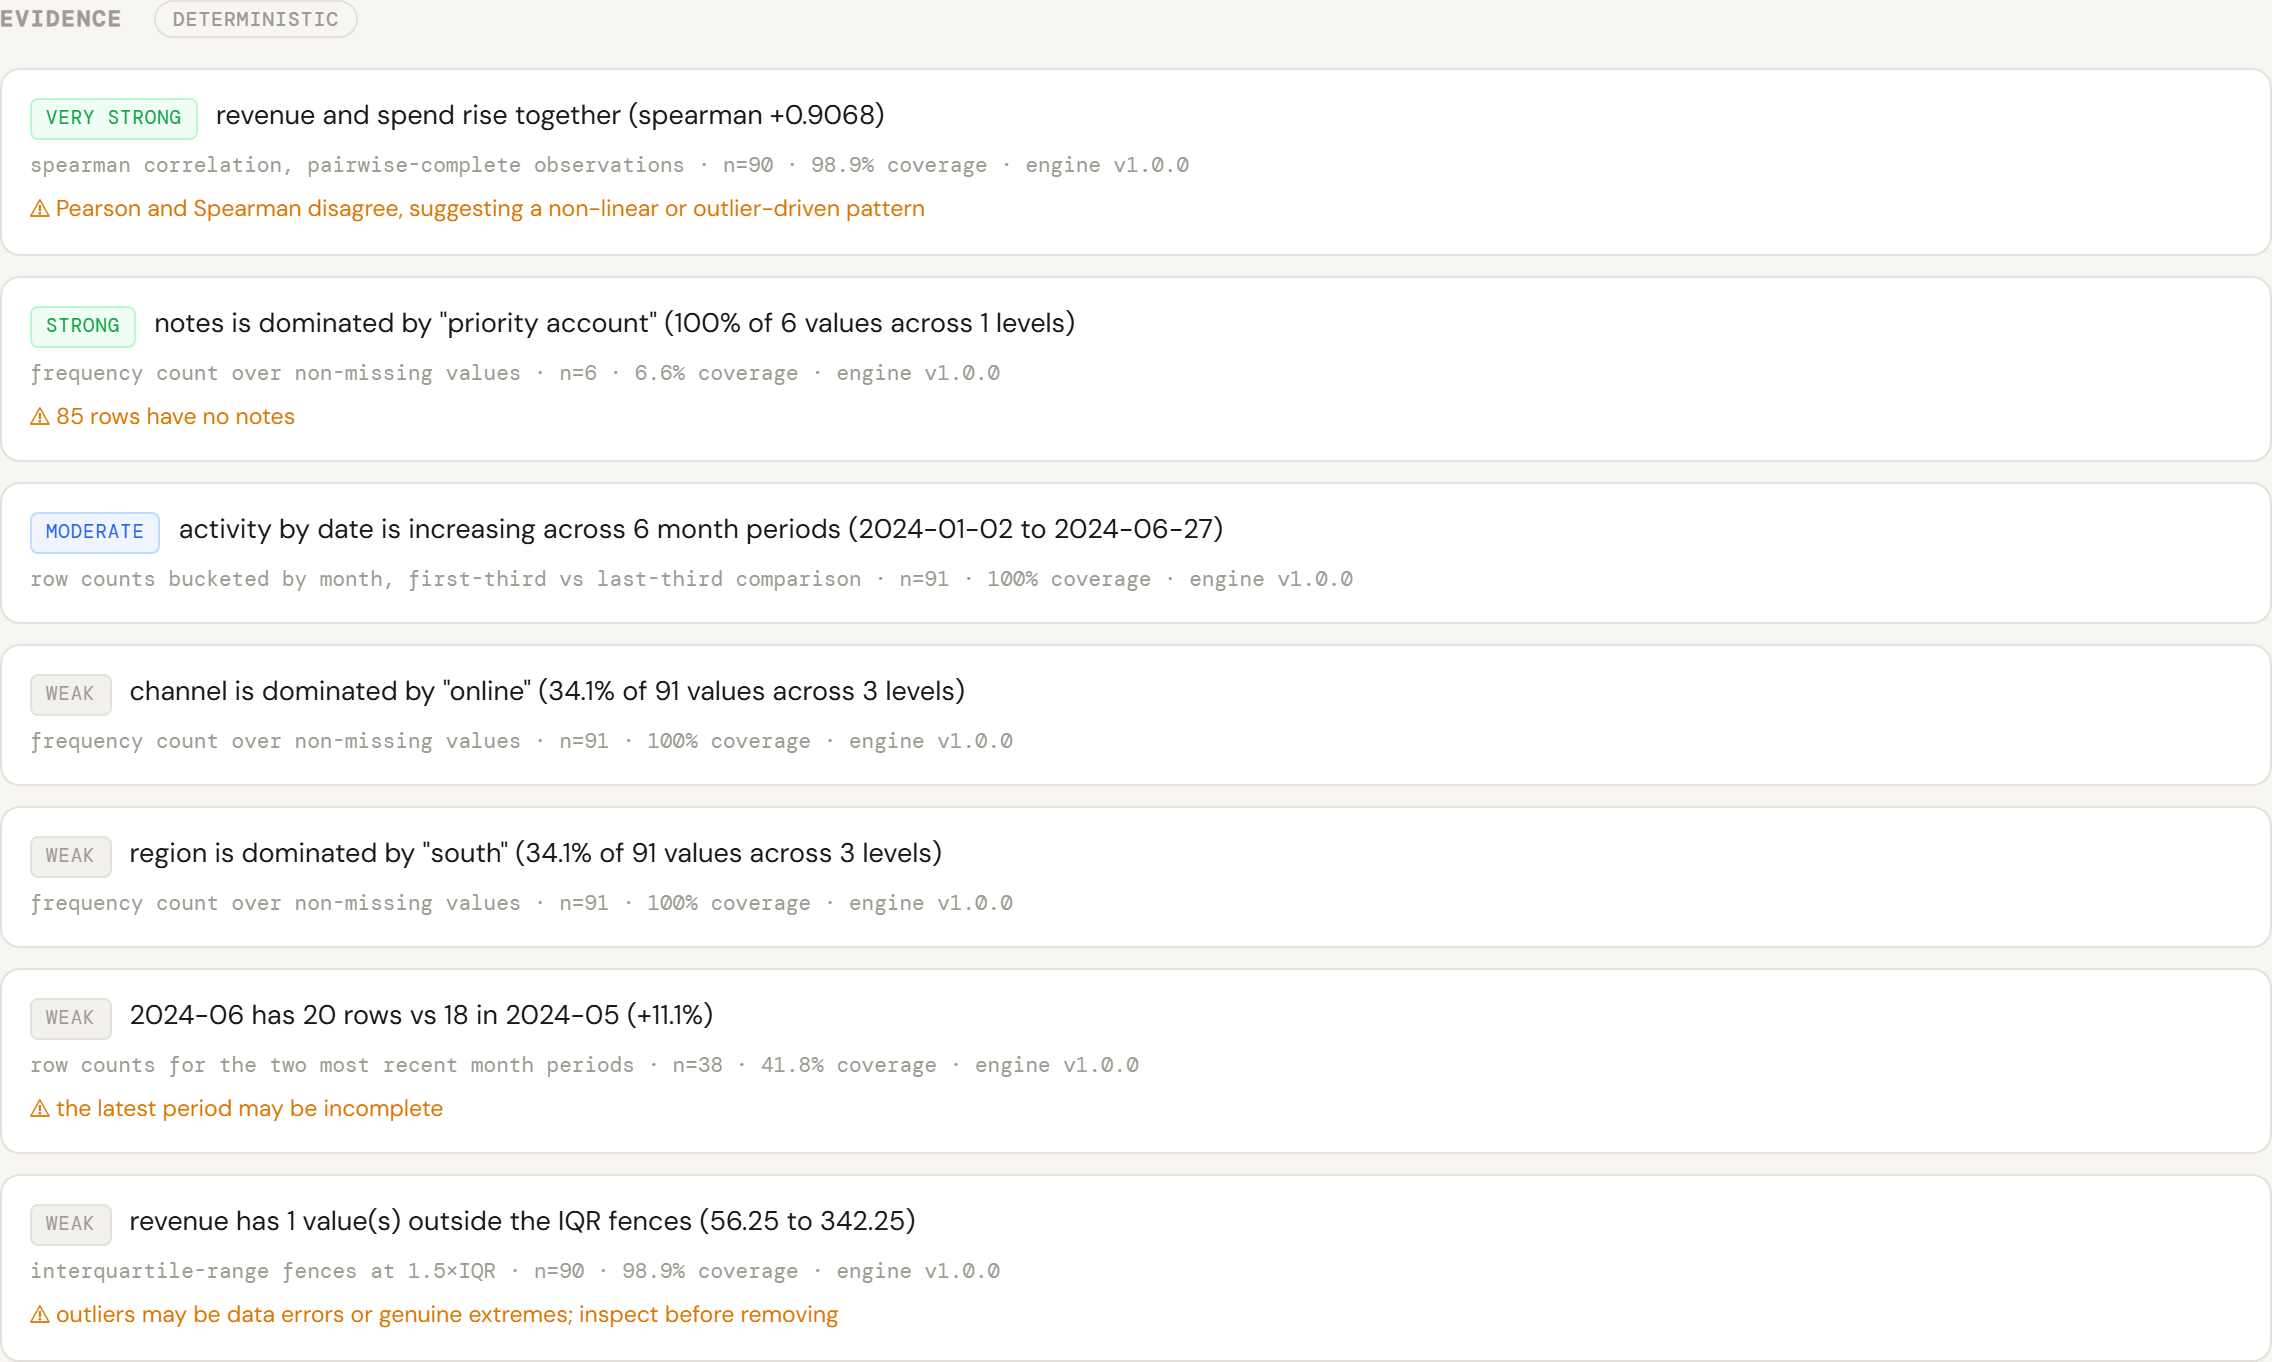
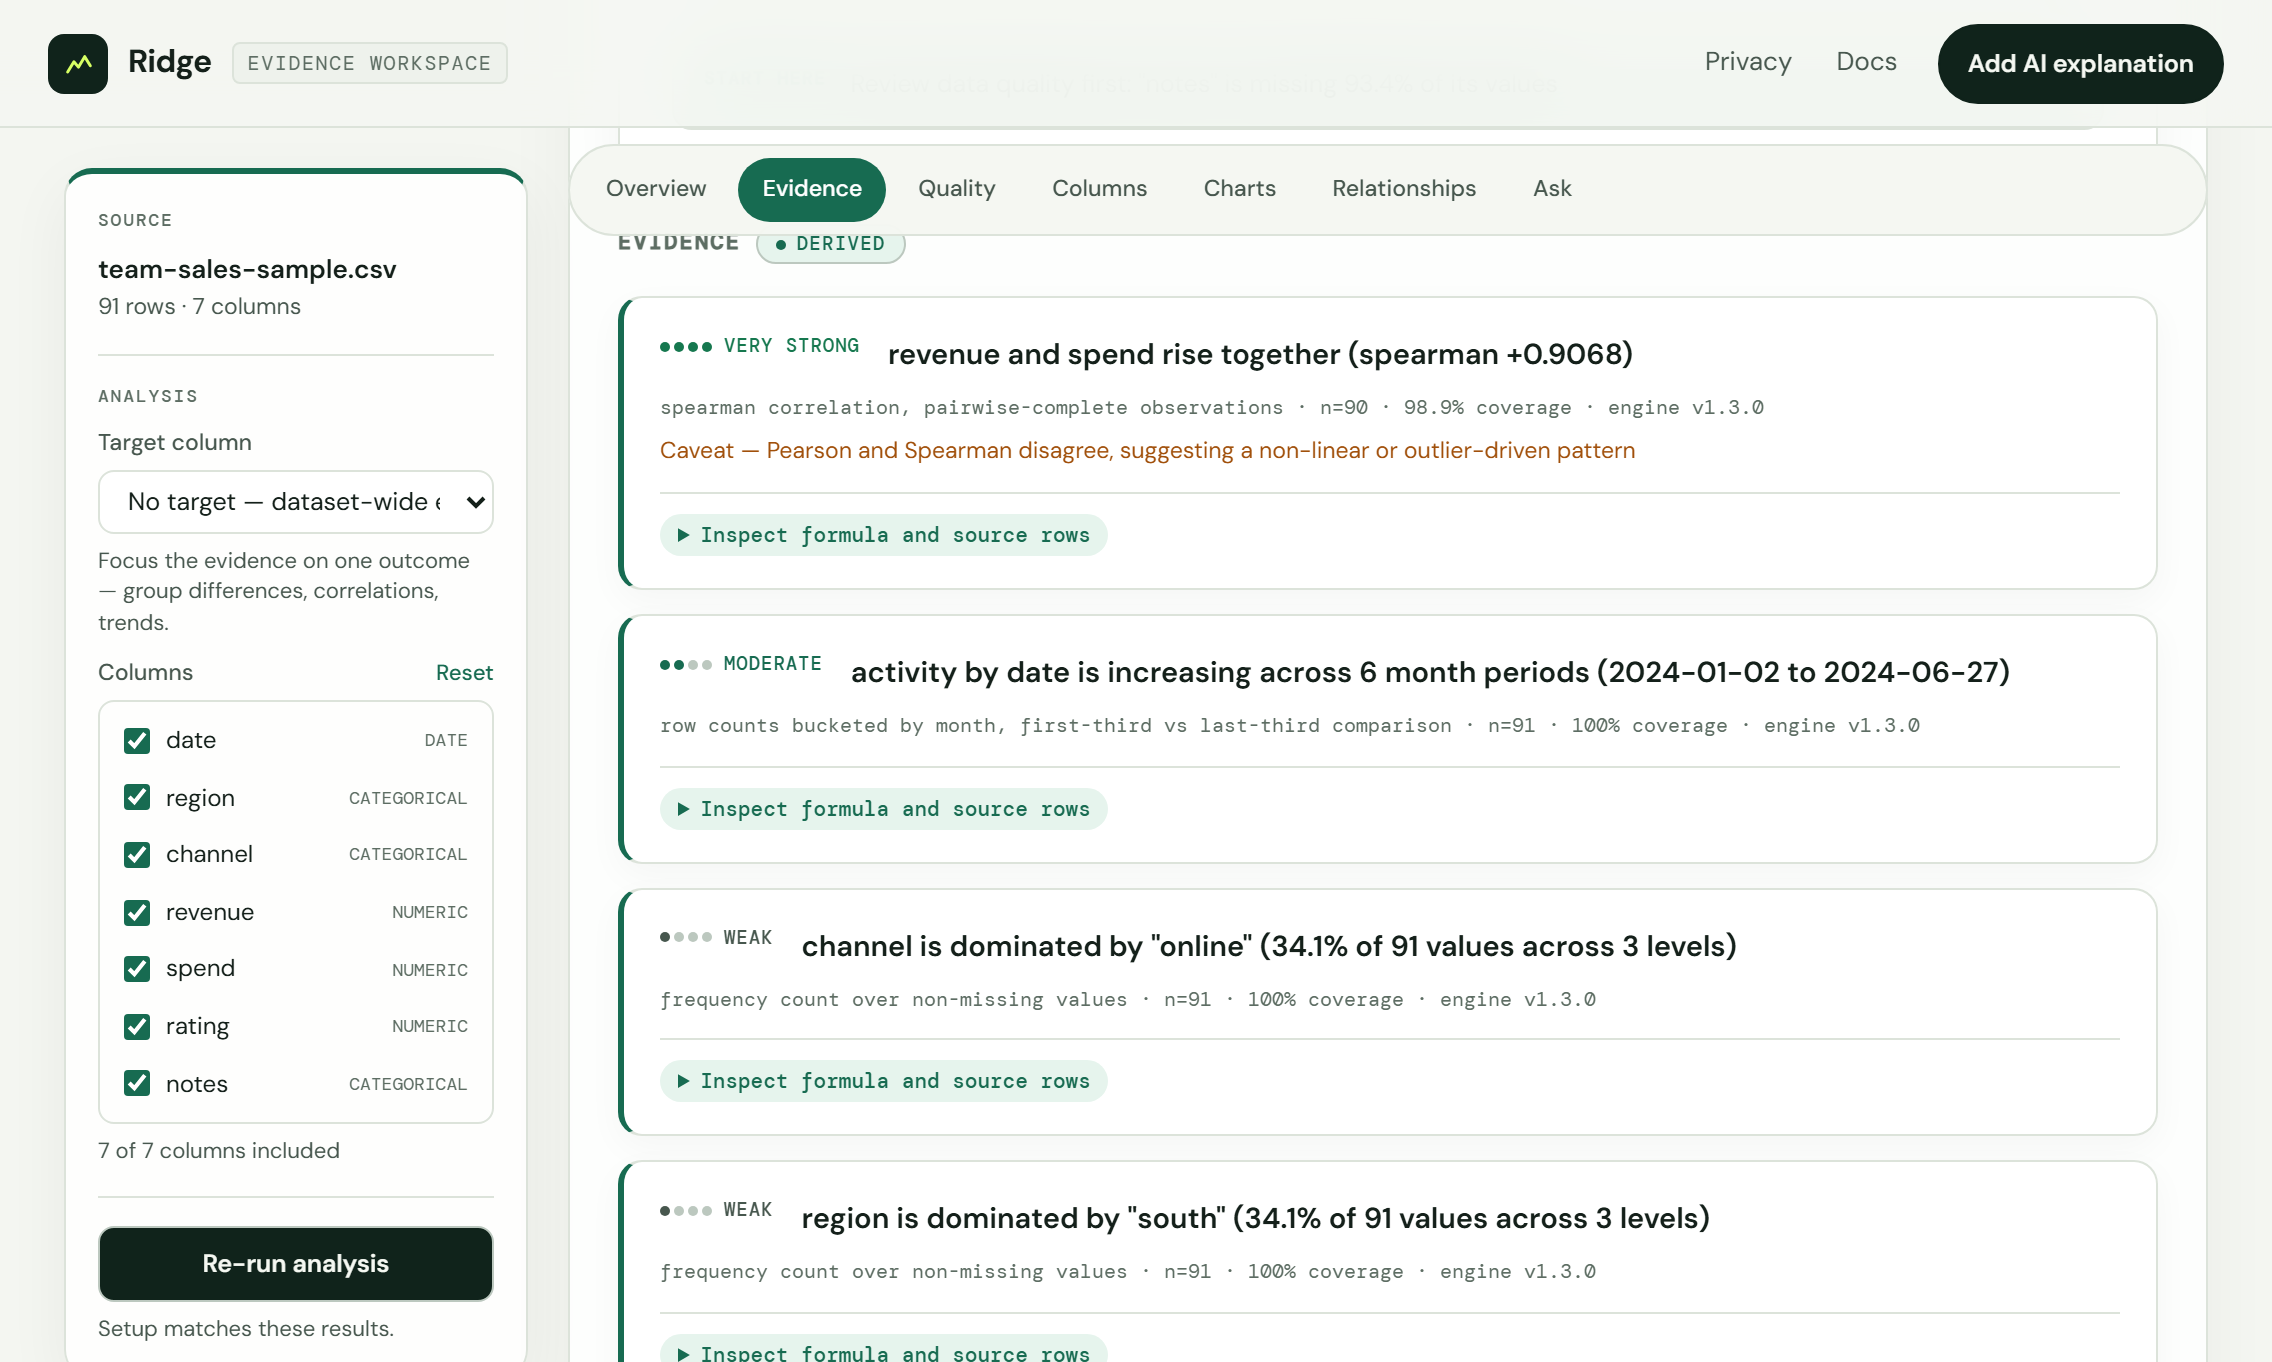
docs(readme): recapture dashboard screenshots from the current UI
The evidence and quality images predated the overview redesign, the
provenance drawers and the strength meters. Captured by a new scripted
path, video/readme-shots.js, which starts the server keyless, loads the
sample analysis, and asserts the exact pixel dimensions the README's
side-by-side table expects, so a drifted capture fails instead of
landing. Caption updated to the button's current label.

diff --git a/video/readme-shots.js b/video/readme-shots.js
@@ -1,0 +1,115 @@
+// Recaptures the README's dashboard screenshots from the running product.
+//
+// The two images sit side by side in README.md's screenshot table, so their
+// pixel dimensions are a layout contract: 2272x1362 for evidence.png and
+// 2272x564 for quality.png — a 1136px-wide viewport at deviceScaleFactor 2.
+// The script asserts the output sizes, so a capture that would shift the
+// README layout fails instead of landing.
+//
+// The server is started keyless, exactly as video/capture.js starts it: the
+// screenshots must show what a visitor gets on the no-key path.
+//
+// Usage:  node video/readme-shots.js
+
+import { chromium } from "playwright";
+import { spawn } from "node:child_process";
+import { readFile } from "node:fs/promises";
+import path from "node:path";
+import { fileURLToPath } from "node:url";
+
+const here = path.dirname(fileURLToPath(import.meta.url));
+const repo = path.resolve(here, "..");
+const PORT = process.env.SHOTS_PORT || "3510";
+const BASE = `http://127.0.0.1:${PORT}`;
+
+const SHOTS = [
+  { file: "evidence.png", selector: "#evidenceSection", viewport: { width: 1136, height: 681 } },
+  { file: "quality.png", selector: "#qualitySection", viewport: { width: 1136, height: 282 } },
+];
+
+/* ── server ─────────────────────────────────────────────────────── */
+
+async function startServer() {
+  const child = spawn(process.execPath, ["server.js"], {
+    cwd: repo,
+    stdio: ["ignore", "ignore", "pipe"],
+    env: {
+      ...process.env,
+      PORT,
+      ANTHROPIC_API_KEY: "",
+      RATE_LIMIT_POINTS: "10000",
+      RATE_LIMIT_ASK_POINTS: "10000",
+    },
+  });
+  child.stderr.on("data", (d) => process.stderr.write(`[server] ${d}`));
+
+  const deadline = Date.now() + 30_000;
+  while (Date.now() < deadline) {
+    try {
+      const res = await fetch(`${BASE}/api/health`);
+      if (res.ok) return child;
+    } catch {}
+    await new Promise((r) => setTimeout(r, 300));
+  }
+  child.kill();
+  throw new Error(`server did not become healthy at ${BASE} within 30s`);
+}
+
+function pngSize(buf) {
+  return { width: buf.readUInt32BE(16), height: buf.readUInt32BE(20) };
+}
+
+/* ── capture ────────────────────────────────────────────────────── */
+
+const server = await startServer();
+const browser = await chromium.launch();
+try {
+  const context = await browser.newContext({
+    viewport: SHOTS[0].viewport,
+    deviceScaleFactor: 2,
+  });
+  const page = await context.newPage();
+
+  await page.goto(`${BASE}/app`, { waitUntil: "networkidle" });
+  await page.evaluate(() => document.fonts.ready);
+  await page.click("#sampleBtn");
+  await page.waitForSelector("#dashboardScreen", { state: "visible", timeout: 25_000 });
+  await page.waitForSelector("#evidenceSection", { state: "visible", timeout: 15_000 });
+
+  // Charts build lazily as they approach the viewport; walk the whole page
+  // once so everything exists before any framing begins.
+  await page.evaluate(async () => {
+    for (let y = 0; y <= document.body.scrollHeight; y += 400) {
+      window.scrollTo(0, y);
+      await new Promise((r) => setTimeout(r, 60));
+    }
+    window.scrollTo(0, 0);
+  });
+  await page.waitForTimeout(1000);
+
+  for (const shot of SHOTS) {
+    await page.setViewportSize(shot.viewport);
+    // scrollIntoView honours the sections' scroll-margin-top, which is how
+    // the app itself keeps a jumped-to section clear of the sticky header
+    // and result nav. A manual scrollTo would put both over the first card.
+    await page.evaluate((sel) => {
+      document.querySelector(sel).scrollIntoView({ block: "start", behavior: "instant" });
+    }, shot.selector);
+    await page.waitForTimeout(600);
+
+    const out = path.join(repo, "docs", "images", shot.file);
+    await page.screenshot({ path: out, animations: "disabled" });
+
+    const { width, height } = pngSize(await readFile(out));
+    const want = { width: shot.viewport.width * 2, height: shot.viewport.height * 2 };
+    if (width !== want.width || height !== want.height) {
+      throw new Error(`${shot.file}: got ${width}x${height}, expected ${want.width}x${want.height}`);
+    }
+    console.log(`  ${shot.file}: ${width}x${height}`);
+  }
+} finally {
+  await browser.close();
+  server.kill();
+}
+
+console.log("done — review both images before committing them");

diff --git a/README.md b/README.md
@@ -38,11 +38,11 @@ to explain evidence that already exists.
 
 ## Screenshots
 
-The workspace at `/app` after **Try sample data**: deterministic evidence,
+The workspace at `/app` after **Explore the sample**: deterministic evidence,
 statistics and quality diagnostics, with AI interpretation still un-run.
 
-<!-- To refresh: npm run dev, open http://localhost:3000, click "Try sample
-     data", and capture the dashboard into docs/images/. -->
+<!-- To refresh: node video/readme-shots.js — captures both images from the
+     running app at the exact dimensions this table expects. -->
 
 | Evidence and statistics | Data quality |
 |---|---|
